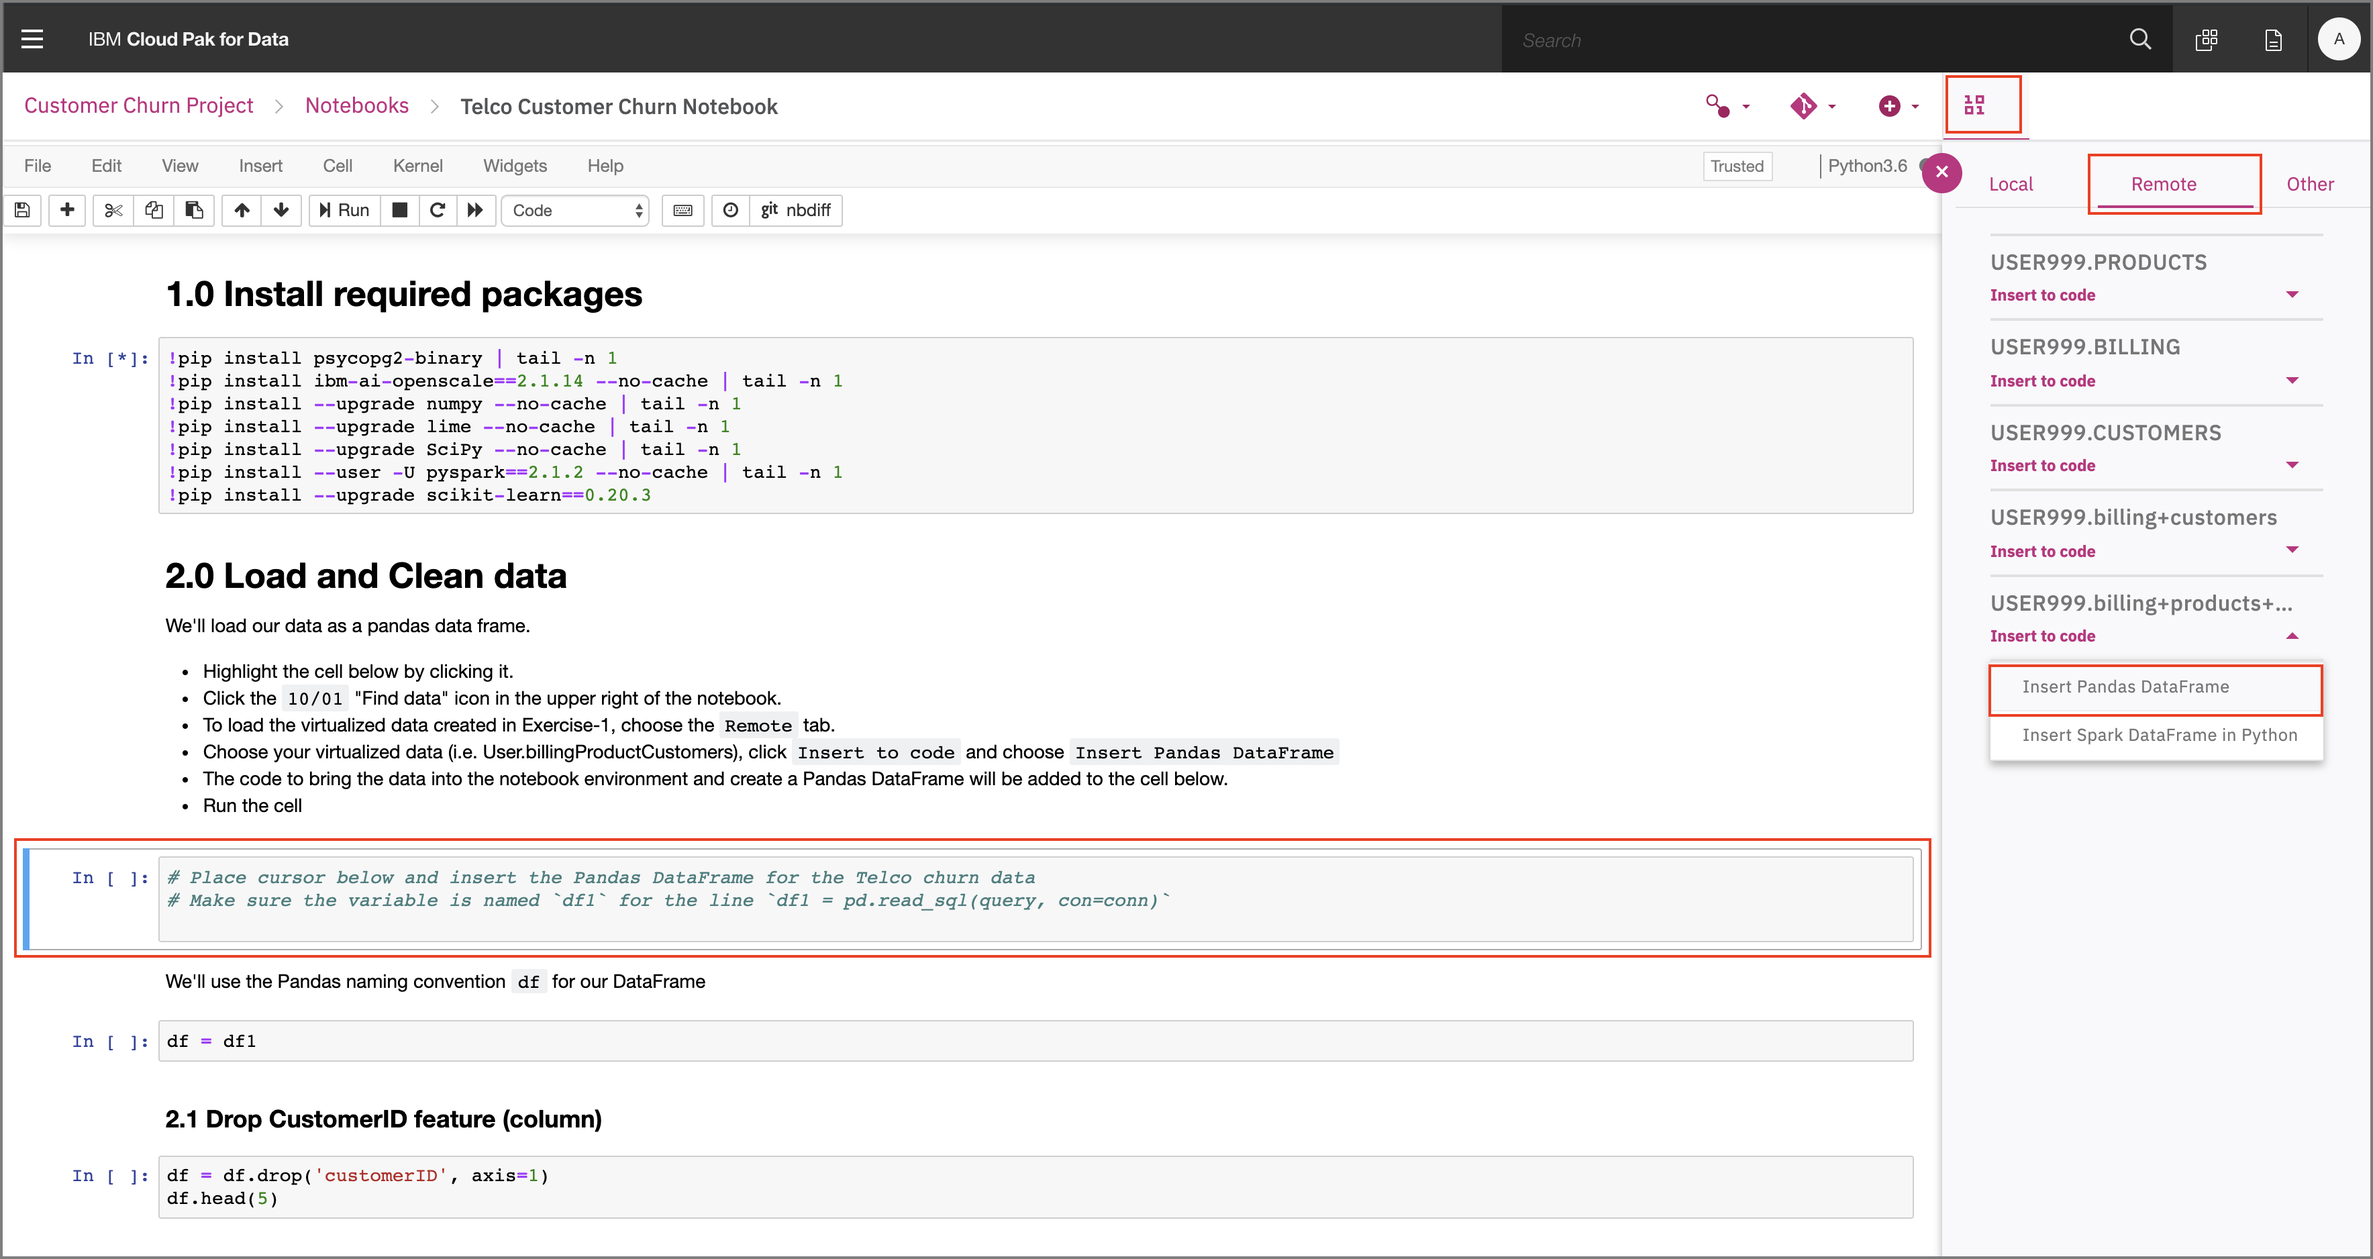
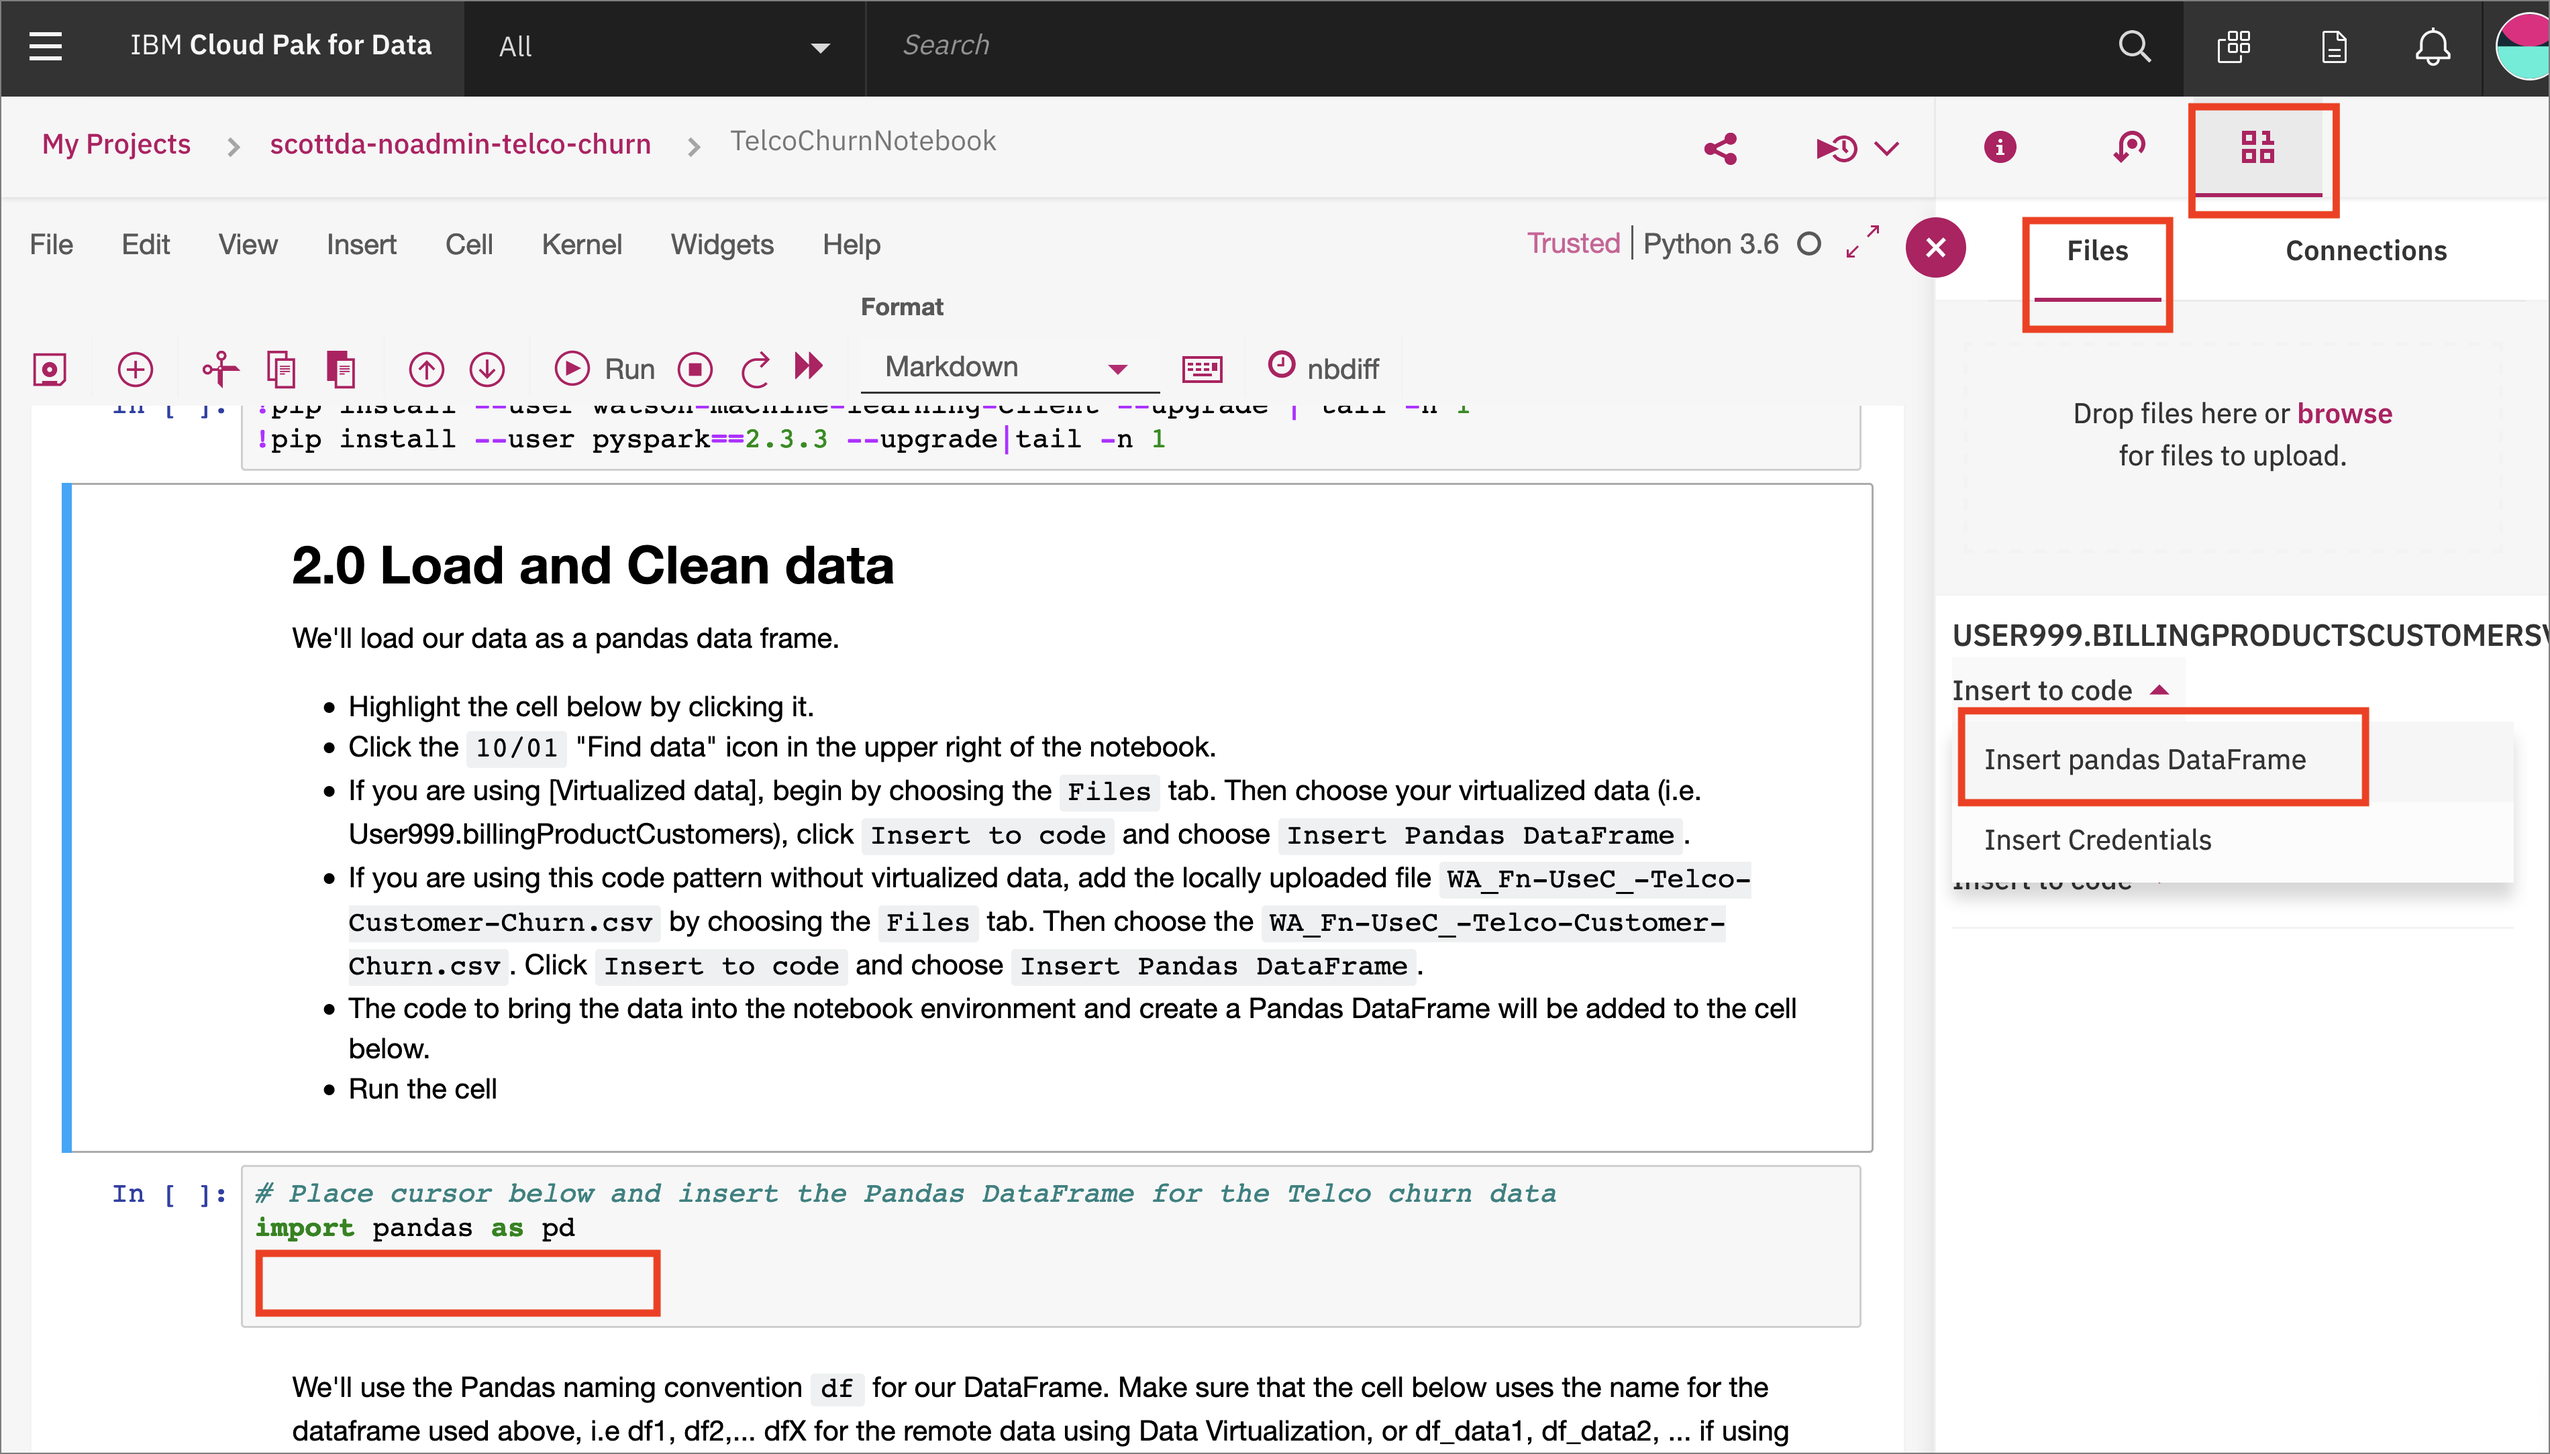
Typo fixes and improved file names.

diff --git a/workshop/exercise-3/README.md b/workshop/exercise-3/README.md
@@ -44,7 +44,14 @@ Section `1.0 Install required packages` will show the libraries that come pre-in
 
 #### Add the data set to the notebook
 
-Section `2.0 Load and Clean data` will load the virtualized data from the previous exercise. Highlight the cell labelled `# Place cursor ...` by clicking on it. Click on the *10/01* button to select a specific data set. Choose The *Remote* tab, and pick the virtualized data set that has all three joined tables (i.e. `User999.billing+products+customers`), and opt to insert the data as a *Pandas DataFrame*.
+Section `2.0 Load and Clean data` will load the virtualized data from the previous exercise.
+
+* Highlight the cell below by clicking it.
+* Click the 10/01 "Find data" icon in the upper right of the notebook.
+* If you are using [Virtualized data], begin by choosing the `Files` tab. Then choose your virtualized data (i.e. User999.billingProductCustomers), click Insert to code and choose Insert Pandas DataFrame.
+* If you are using this code pattern without virtualized data, add the locally uploaded file WA_Fn-UseC_-Telco-Customer-Churn.csv by choosing the 'Files` tab. Then choose theWA_Fn-UseC_-Telco-Customer-Churn.csv. ClickInsert to codeand chooseInsert Pandas DataFrame`.
+* The code to bring the data into the notebook environment and create a Pandas DataFrame will be added to the cell below.
+* Run the cell
 
 ![Add the data as a Pandas DataFrame](../.gitbook/assets/images/wml/wml-4-add-dataframe.png)
 
@@ -52,7 +59,7 @@ By adding data a block of code will be added to the notebook. The code will auto
 
 ![Generated code to handle Pandas DataFrame](../.gitbook/assets/images/wml/wml-5-generated-code-dataframe.png)
 
-> **IMPORTANT**: Don't forget to update the next cell `df = df1` with the variable from the generated code.
+> **IMPORTANT**: Don't forget to update the next cell `df = df_data_1` or `df_data_X` depending on your number `X` for the variable from the generated code.
 
 Continue to run the remaining cells in the section to clean the data.
 
